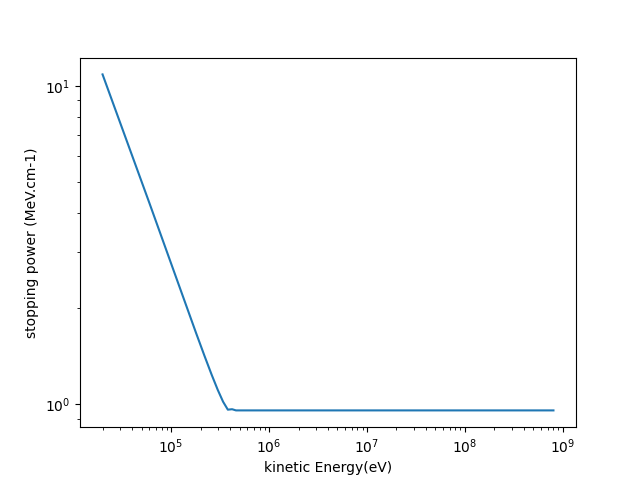
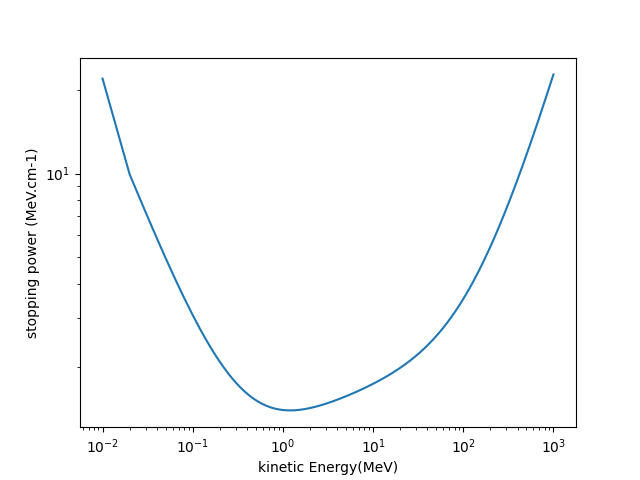
stoppingpower E test

diff --git a/MCTDCRcode/TDCR_model_lib.py b/MCTDCRcode/TDCR_model_lib.py
@@ -215,6 +215,44 @@ def stoppingpowerE(e,*,za=0.5459,rho,I=60,spmodel="Beth_Tan_Xia",emin=0,file=dat
     return dEdx
 
 
+def stoppingpower(e,rho,Z,A,emin=0,file=data_TanXia_f):
+    # e:eV
+    mc_2 = 0.511 #MeV
+    I = 65e-6 #MeV
+    NA = 6.02e23
+    ahc = 1.437e-13   #MeV.cm
+    if e>=20000:
+        e1 = e*1e-6 #MeV
+        gamma = (e1+mc_2)/mc_2
+        gamma_2 = gamma*gamma
+        beta = np.sqrt(1-(1/gamma_2))
+        beta_2 = beta**2
+        tau = e1/mc_2
+        terma = np.log(tau**2*(tau+2)/2)
+        termb = 1+tau*tau/8-(2*tau+1)*np.log(2)
+        termc = (tau+1)**2
+        B0 = terma + termb/termc
+        sc = 0.1535/beta_2*Z/A*(B0-2*np.log(I/mc_2))
+        term3 = NA*(Z**2)*rho*(e1+mc_2)/(137*(mc_2**2)*A)
+        term4 = 4* np.log(2*gamma) -4/3
+        sr = (ahc**2)*term3*term4
+        #if T<1:sr=0
+        dEdx = (sc + sr)*rho  #MeV.cm-1
+    else:
+            if e>emin:
+                dEdx=float(file[int(e)]) #MeV.cm-1
+            else:
+                dEdx=0
+    if dEdx<0:
+        dEdx=0
+    return dEdx    
+
+dEdx = []
+e = np.linspace(1e4,1e9,100000)
+for i in e:
+    dEdx.append(stoppingpower(i,rho=0.866,Z=5.199,A=11.04))
+
+
 
 def readBetaSpectrum(rad):
     f=open("spectrum_"+rad+".txt", "r") # open the file 
@@ -265,26 +303,28 @@ def readBetaShape(rad,mode,trans):
         dNdx.append(data[j][1])
         
     return e,dNdx
-
+'''
 e1 = np.linspace(20e3,8e8,20000) # eV
 e2 = np.linspace(0,8e3,800000) #keV
 doc = 'alpha_toulene.txt'
 spe = []
 spa = []
-#'''
+'''
+'''
 for i in range(20000):
     e = e1[i]
     spe.append(stoppingpowerE(e,rho=0.866))
-#'''
+'''
 '''
 for i in range(800000):
     e_2 = e2[i]
     spa.append(stoppingpowerA(e_2,doc,rho=0.866))
 '''
-plt.plot(e1,spe,label='stoppingpowerE')
+e1 = np.linspace(1e-2,1e3,100000)
+plt.plot(e1,dEdx,label='stoppingpowerE')
 #plt.plot(e2,spa,label='stoppingpowerA')
 plt.xscale('log')
 plt.yscale('log')
-plt.xlabel('kinetic Energy(eV)')
+plt.xlabel('kinetic Energy(MeV)')
 plt.ylabel('stopping power (MeV.cm-1)')
 plt.savefig('stoppingpowerE.png')
